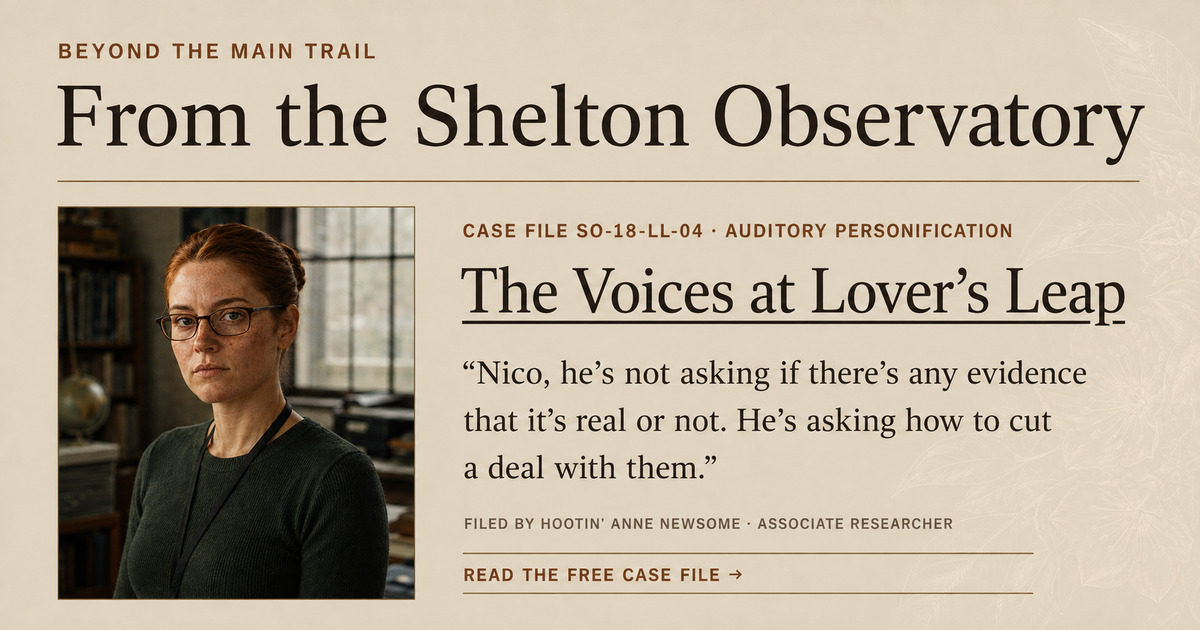
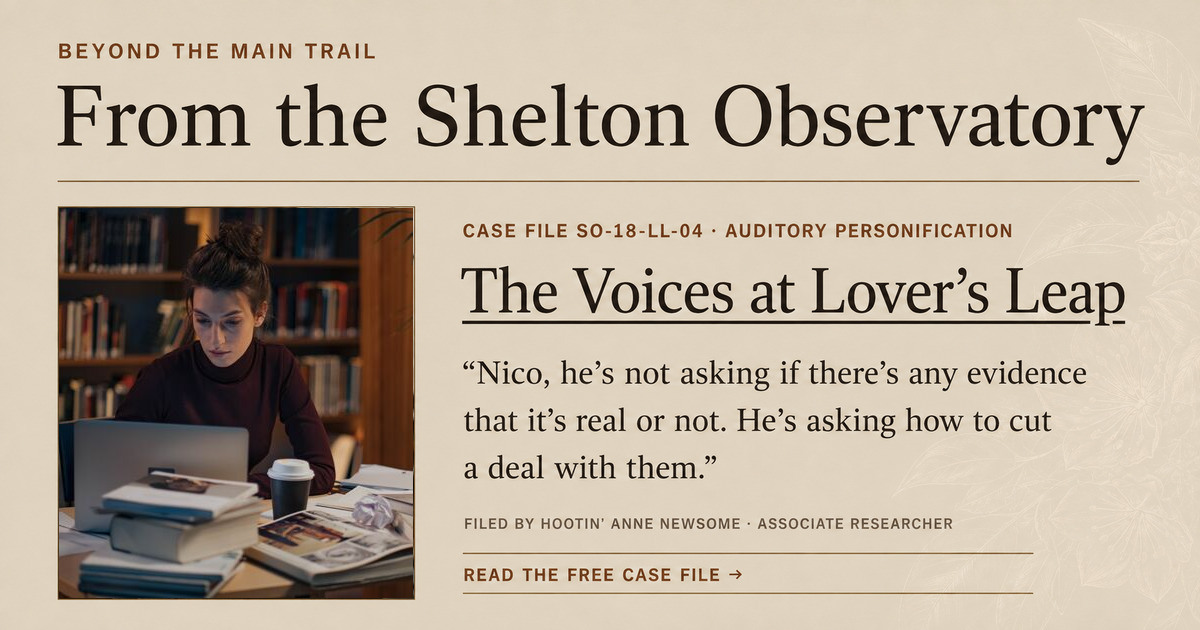
Replace Anne portrait with licensed stock photo

Changed region(s): [[0.0308, 0.3317, 0.37, 0.9651]]

diff --git a/README.md b/README.md
@@ -108,7 +108,8 @@ case ID and classification, title, pull quote, filing credit, and call to action
 
 The first published card is
 `images/shelton-observatory-voices-share-card.jpg`; Anne's reusable portrait is
-`images/hootin-anne-newsome.webp`.
+`images/hootin-anne-newsome.webp`. The portrait is adapted from a photograph by
+Ron Lach on Pexels; source and license details are recorded in `CREDITS.md`.
 
 Generic, currently non-canonical interviewer portraits live in
 `images/shelton-interviewers/`. They are numbered rather than named so using a

diff --git a/CREDITS.md b/CREDITS.md
@@ -1,0 +1,13 @@
+# Image credits
+
+## Anne Newsome
+
+The Anne Newsome portrait used on the home page, Shelton Observatory case
+files, and related social cards is adapted from “Woman working late at a desk
+filled with books, laptop, and coffee in a cozy library setting” by Ron Lach.
+
+- Source: https://www.pexels.com/photo/brunette-woman-working-in-home-office-8085257/
+- License: https://www.pexels.com/license/
+- Pexels photo ID: 8085257
+- Adaptation: cropped, resized, and lightly desaturated for the Bloodline site
+
